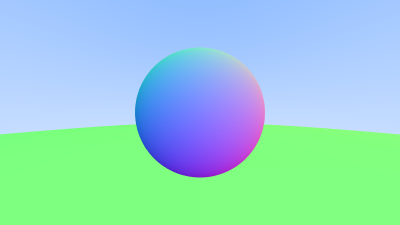
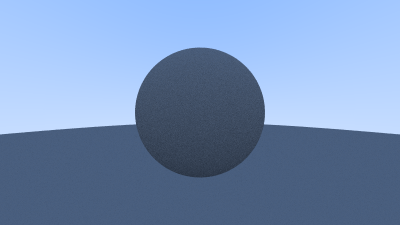
9. Diffuse Materials

diff --git a/src/main/kotlin/Camera.kt b/src/main/kotlin/Camera.kt
@@ -1,3 +1,6 @@
+import Vec3.Companion.randomInUnitSphere
+import Vec3.Companion.randomOnHemisphere
+import Vec3.Companion.randomUnitVector
 import Vec3.Companion.times
 import Vec3.Companion.unitVector
 import java.awt.image.BufferedImage
@@ -9,6 +12,7 @@ class Camera {
     var aspectRatio = 1.0
     var imageWidth = 100
     var samplesPerPixel = 10
+    var maxDepth = 10
     private var imageHeight = 100
     private var center = Vec3()
     private var pixel00Loc = Vec3()
@@ -34,7 +38,7 @@ class Camera {
                 var pixelColor = Color(0, 0, 0)
                 for(sample in 0..<samplesPerPixel) {
                     val r = getRay(i, j)
-                    pixelColor += rayColor(r, world)
+                    pixelColor += rayColor(r, maxDepth, world)
                 }
                 Color.writeColor(pixelColor, samplesPerPixel)
                 image?.setRGB(i, j, Color.intRGB((pixelColor.toVec3() / samplesPerPixel.toDouble()).toColor()))
@@ -89,11 +93,17 @@ class Camera {
         return (px * pixelDeltaU) + (py * pixelDeltaV)
     }
 
-    private fun rayColor(r: Ray, world: Hittable): Color {
+    private fun rayColor(r: Ray, depth: Int, world: Hittable): Color {
         val rec = HitRecord()
 
-        if(world.hit(r, Interval(0.0, Double.POSITIVE_INFINITY), rec))
-            return (0.5 * (rec.normal + Color(1, 1, 1).toVec3())).toColor()
+        // If we've exceeded the ray bounce limit, no more light is gathered.
+        if(depth <= 0)
+            return Color(0, 0, 0)
+
+        if(world.hit(r, Interval(0.001, Double.POSITIVE_INFINITY), rec)) {
+            val direction = rec.normal + randomUnitVector()
+            return 0.5 * rayColor(Ray(rec.p, direction), depth - 1, world)
+        }
 
         val unitDirection = unitVector(r.direction)
         val a = 0.5 * (unitDirection.y + 1.0)

diff --git a/src/main/kotlin/Vec3.kt b/src/main/kotlin/Vec3.kt
@@ -35,14 +35,28 @@ class Vec3(var x: Double, var y: Double, var z: Double) {
     fun toColor() = Color(x, y, z)
 
     companion object {
-        fun print(v: Vec3) {
-            print("${v.x} ${v.y} ${v.z}")
-        }
         fun dot(u: Vec3, v: Vec3) = u.x*v.x + u.y*v.y + u.z*v.z
         fun cross(u: Vec3, v: Vec3) = Vec3(u.y * v.z - u.z * v.y,
                                                  u.z * v.x - u.x * v.z,
                                                  u.x * v.y - u.y * v.x)
         fun unitVector(v: Vec3) = v / v.length()
+        fun random() = Vec3(Math.random(), Math.random(), Math.random())
+        fun random(min: Double, max: Double) = Vec3(randomDouble(min, max), randomDouble(min, max), randomDouble(min, max))
+        fun randomDouble(min: Double, max: Double) = min + (max - min) * Math.random()
+        fun randomInUnitSphere(): Vec3 {
+            while(true) {
+                val p = Vec3.random(-1.0, 1.0)
+                if(p.lengthSquared() < 1)
+                    return p
+            }
+        }
+        fun randomUnitVector() = unitVector(randomInUnitSphere())
+        fun randomOnHemisphere(normal: Vec3): Vec3 {
+            val onUnitSphere = randomUnitVector()
+            return if(dot(onUnitSphere, normal) > 0.0) // In the same hemisphere as normal
+                onUnitSphere
+            else -onUnitSphere
+        }
         operator fun Double.times(v: Vec3) = v * this
         operator fun Double.times(c: Color) = (c.toVec3() * this).toColor()
     }

diff --git a/src/main/kotlin/Color.kt b/src/main/kotlin/Color.kt
@@ -1,3 +1,5 @@
+import kotlin.math.sqrt
+
 class Color(var r: Double, var g: Double, var b: Double) {
     constructor(r: Int, g: Int, b: Int) : this(r.toDouble(), g.toDouble(), b.toDouble())
     operator fun unaryMinus() = Color(-r, -g, -b)
@@ -5,6 +7,8 @@ class Color(var r: Double, var g: Double, var b: Double) {
     operator fun minus(c: Color) = this + -c
     fun toVec3() = Vec3(r, g, b)
     companion object {
+        fun linearToGamma(linearComponent: Double) = sqrt(linearComponent)
+
         fun writeColor(pixelColor: Color, samplesPerPixel: Int) {
             var r = pixelColor.r
             var g = pixelColor.g
@@ -15,6 +19,11 @@ class Color(var r: Double, var g: Double, var b: Double) {
             r *= scale
             g *= scale
             b *= scale
+
+            // Apply the linear to gamma transform
+            r = linearToGamma(r)
+            g = linearToGamma(g)
+            b = linearToGamma(b)
 
             //Write the translated [0,255] value of each color component.
             val intensity = Interval(0.000, 0.999)

diff --git a/src/main/kotlin/Raytracer.kt b/src/main/kotlin/Raytracer.kt
@@ -1,13 +1,14 @@
 fun main() {
     val world = HittableList()
-    world.add(Sphere(Vec3(0, 0, -1), 0.5))
     world.add(Sphere(Vec3(0.0, -100.5, -1.0), 100.0))
+    world.add(Sphere(Vec3(0, 0, -1), 0.5))
 
     val cam = Camera()
 
     cam.aspectRatio = 16.0 / 9.0
     cam.imageWidth = 400
     cam.samplesPerPixel = 100
+    cam.maxDepth = 50
 
     cam.render(world)
 }
